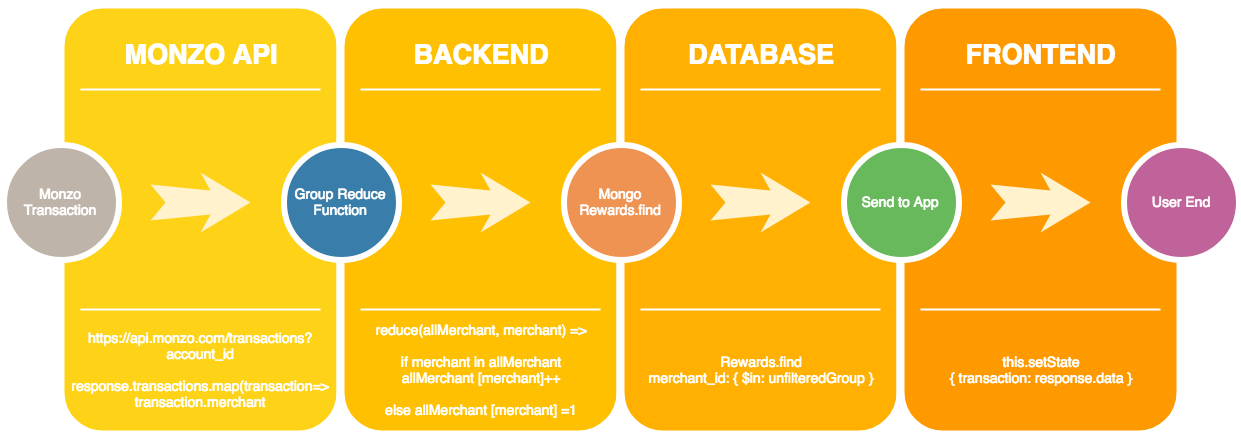
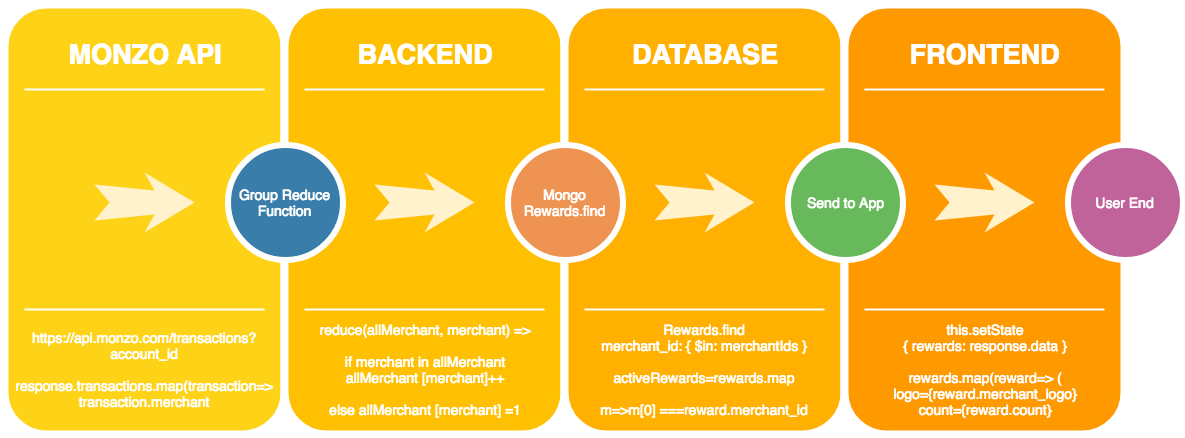
updated week 4 README.md

diff --git a/Week_4/README.md b/Week_4/README.md
@@ -1,12 +1,63 @@
 ## Class Project (Week 4) - Monzo Reward Web App
 
-#### Reward Flow
+### Reward Flow (Four Stages)
 
 ![Database](./filterReward.png)
+
+<b>Stage 1: Monzo API</b>
+```js
+request.get(`https://api.monzo.com/transactions?account_id=${accountID}`, {
+  headers: { Authorization: `Bearer ${user.access_token}` },
+})
+.then((data) => {
+  const response = JSON.parse(data);
+  const reduceReward = groupMerchant(response.transactions.map(
+    transaction => transaction.merchant,
+));
+```
+<b>Stage 2: Backend API</b>
+```js
+merchant.reduce((allMerchantID, merchantName) => {
+  if (merchantName in allMerchantID) {
+    allMerchantID[merchantName]++;
+  } else {
+    allMerchantID[merchantName] = 1;
+  }
+  return allMerchantID;
+}, {});
+```
+<b>Stage 3: Database</b>
+```js
+const merchantIds = merchants.map(merchant => merchant[0]);
+return Rewards.find({ merchant_id: { $in: merchantIds }}).then((rewards) => {
+  const activeRewards = rewards.map(reward => reward.toObject()).map((reward) => {
+    const merchant = merchants.find(m => m[0] === reward.merchant_id);
+    reward.count = merchant[1];
+});
+```
+<b>Stage 4: Frontend APP</b>
+```js
+axios.get('http://127.0.0.1:3000/transaction')
+  .then((response) => { this.setState({ rewards: response.data });
+  })
+render() {
+  const { rewards } = this.state;
+    return (
+      <ul className="rewards rewards__list">
+      {
+      rewards.map(reward => (
+      <Reward
+        key={reward._id}
+        description={reward.description}
+        logo={reward.merchant_logo}
+        count={reward.count}
+      />
+```
 
 #### Further Reading
 - [Array.prototype.reduce() - JavaScript](https://developer.mozilla.org/en-US/docs/Web/JavaScript/Reference/Global_Objects/Array/Reduce)
 - [db.collection.find() - MongoDB Manual](https://docs.mongodb.com/manual/reference/method/db.collection.find/)
 - [$in - MongoDB Manual](https://docs.mongodb.com/manual/reference/operator/query/in/)
+- [Array.prototype.map() - JavaScript](https://developer.mozilla.org/en-US/docs/Web/JavaScript/Reference/Global_Objects/Array/map)
 
 [Return to README.md](../README.md)

diff --git a/Week_0/README.md b/Week_0/README.md
@@ -1,7 +1,8 @@
 ## Class Project (Week 0) - Monzo Reward Web App
-A basic Web App with Login UAouth 2.0 access to Monzo API to pull a User list of accounts and transactions.
 
-![Monzo UAouth](./MonzoLogIn.png)
+![Monzo_Dev](https://mondoimages.s3.amazonaws.com/logos/monzo-horizontal-darkBg-gt100px.svg)
+
+A basic Web App with Login UAouth 2.0 access to Monzo API to pull a User list of accounts and transactions.
 
 ### Built-on:
 - [Node.js](https://nodejs.org/en/) - Node Package Manager

diff --git a/Week_2/README.md b/Week_2/README.md
@@ -1,5 +1,8 @@
 ## Class Project (Week 2) - Login with Monzo OAuth Web App
+
 Using BCrypt and JWT encryptions, with the option to sign-in with Monza via [OAuth](https://developer.github.com/apps/building-oauth-apps/).
+
+![Monzo UAouth](./MonzoLogIn.png)
 
 <b>Please Note:</b>
 This repository contain two repositories; Express/Mongoose API code is in `/api` directory (managing data), and React code is in `/app` directory (frontend).

diff --git a/README.md b/README.md
@@ -1,7 +1,4 @@
 ## Class Project - Monzo Reward Web App
-
-![Monzo_Dev](https://mondoimages.s3.amazonaws.com/logos/monzo-horizontal-darkBg-gt100px.svg)
-
 Class project with coding bootcamp [MCRcodes](https://github.com/MCRcodes), creating a web app for User rewards using [Monzo APi](https://developers.monzo.com/)
 
 ___Work In Progress___
